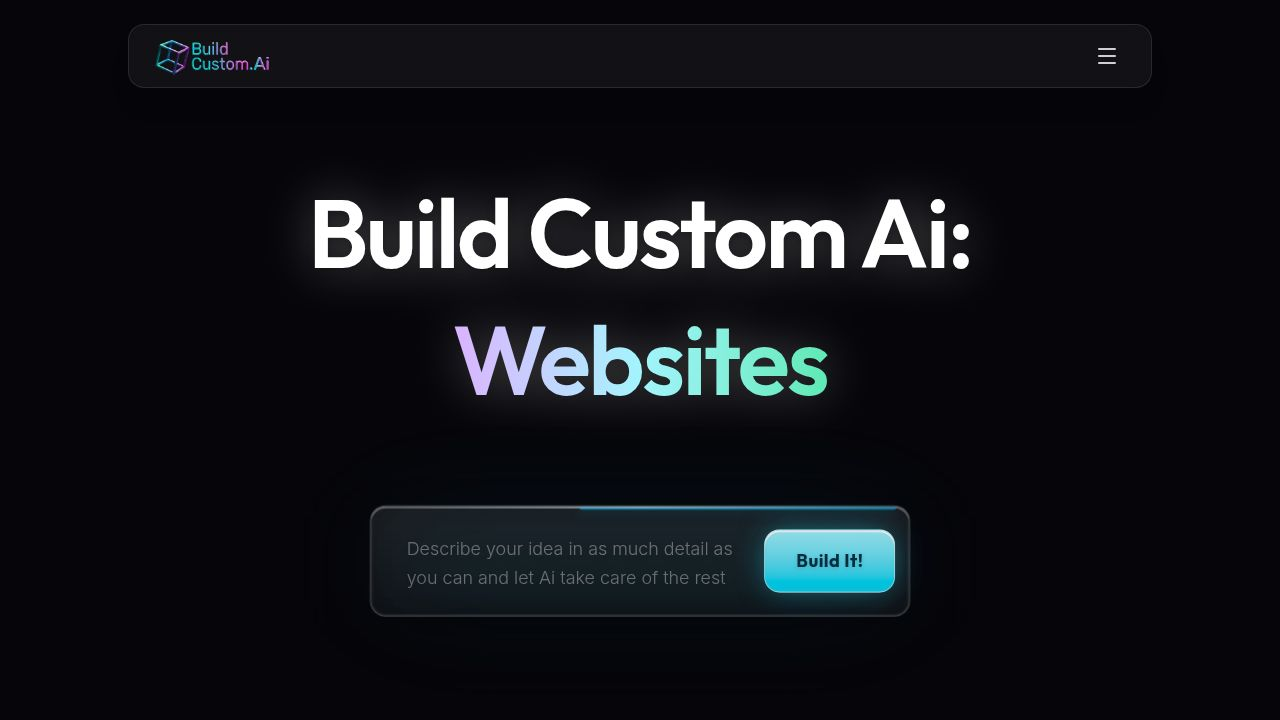
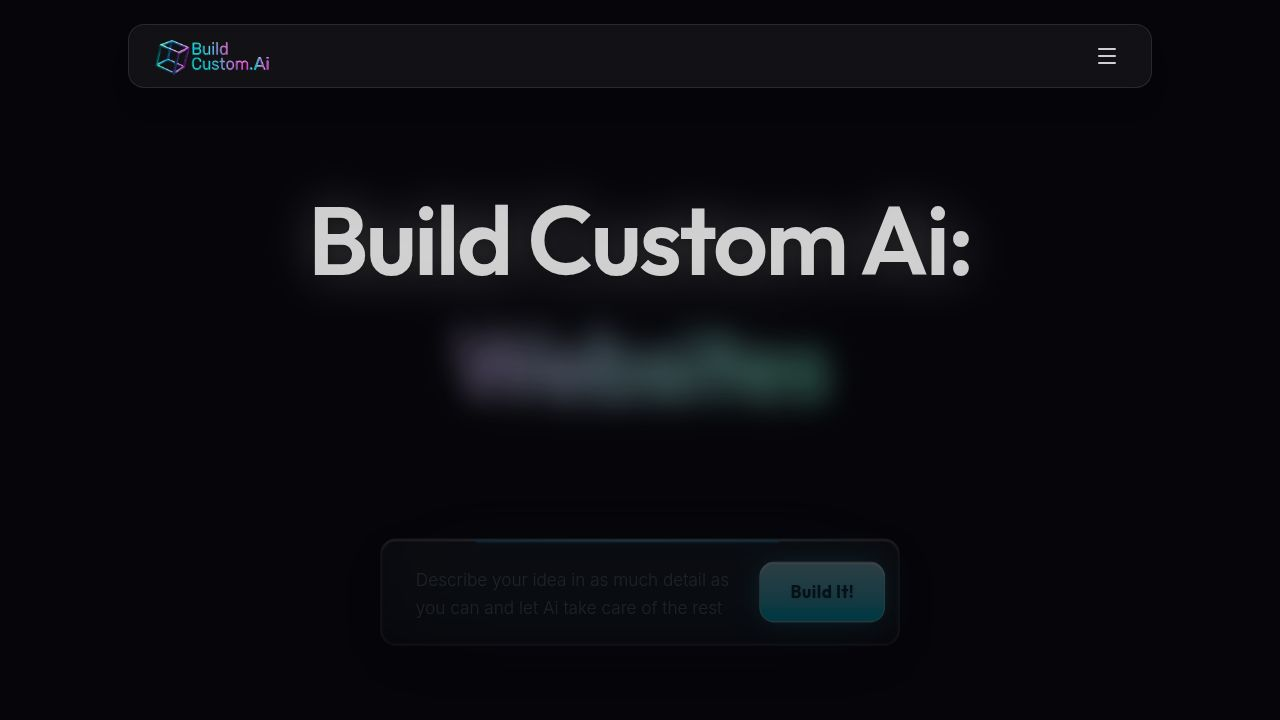
Adjust hero section layout and input box on mobile devices
Modify the hero section's mobile layout by reducing top margin and increasing the minimum height of the input textarea to accommodate more helper text.

Replit-Commit-Author: Agent
Replit-Commit-Session-Id: 9805d1eb-6c06-45b5-806f-9ee84115d9c4
Replit-Commit-Checkpoint-Type: full_checkpoint
Replit-Commit-Event-Id: 162a091b-6fd7-40d6-b78a-c074ab4761ea
Replit-Commit-Screenshot-Url: https://storage.googleapis.com/screenshot-production-us-central1/6e503f41-f9fc-40ef-b7a5-0b6b08acc34b/9805d1eb-6c06-45b5-806f-9ee84115d9c4/mVqx7CZ
Replit-Helium-Checkpoint-Created: true

Changed region(s): [[0.2188, 0.275, 0.7812, 0.3972], [0.2812, 0.7028, 0.7188, 0.8861], [0.3438, 0.4583, 0.6562, 0.55]]

diff --git a/client/src/components/hero.tsx b/client/src/components/hero.tsx
@@ -85,7 +85,7 @@ export function Hero() {
           initial={{ opacity: 0, y: 40, scale: 0.95 }}
           animate={{ opacity: 1, y: 0, scale: 1 }}
           transition={{ duration: 0.7, delay: 0.3, ease: "easeOut" }}
-          className="w-full max-w-xl relative group px-4 mt-12"
+          className="w-full max-w-xl relative group px-4 mt-0 md:mt-12"
         >
           {/* Outer Glow */}
           <div className="absolute inset-4 bg-cyan-500/10 rounded-2xl blur-3xl group-hover:bg-cyan-500/20 transition-all duration-700" />
@@ -136,10 +136,9 @@ export function Hero() {
               <textarea 
                 ref={textareaRef}
                 placeholder="Describe your idea in as much detail as you can and let Ai take care of the rest" 
-                className="w-full bg-transparent border-none text-white placeholder-white/40 focus:outline-none focus:ring-0 text-lg font-light drop-shadow-md resize-none overflow-hidden min-h-[70px] leading-relaxed pt-2"
+                className="w-full bg-transparent border-none text-white placeholder-white/40 focus:outline-none focus:ring-0 text-lg font-light drop-shadow-md resize-none overflow-hidden min-h-[120px] md:min-h-[70px] leading-relaxed pt-2"
                 rows={1}
                 onInput={handleInput}
-                style={{ height: '70px' }}
                 autoFocus
                 data-testid="input-hero-prompt"
               />
